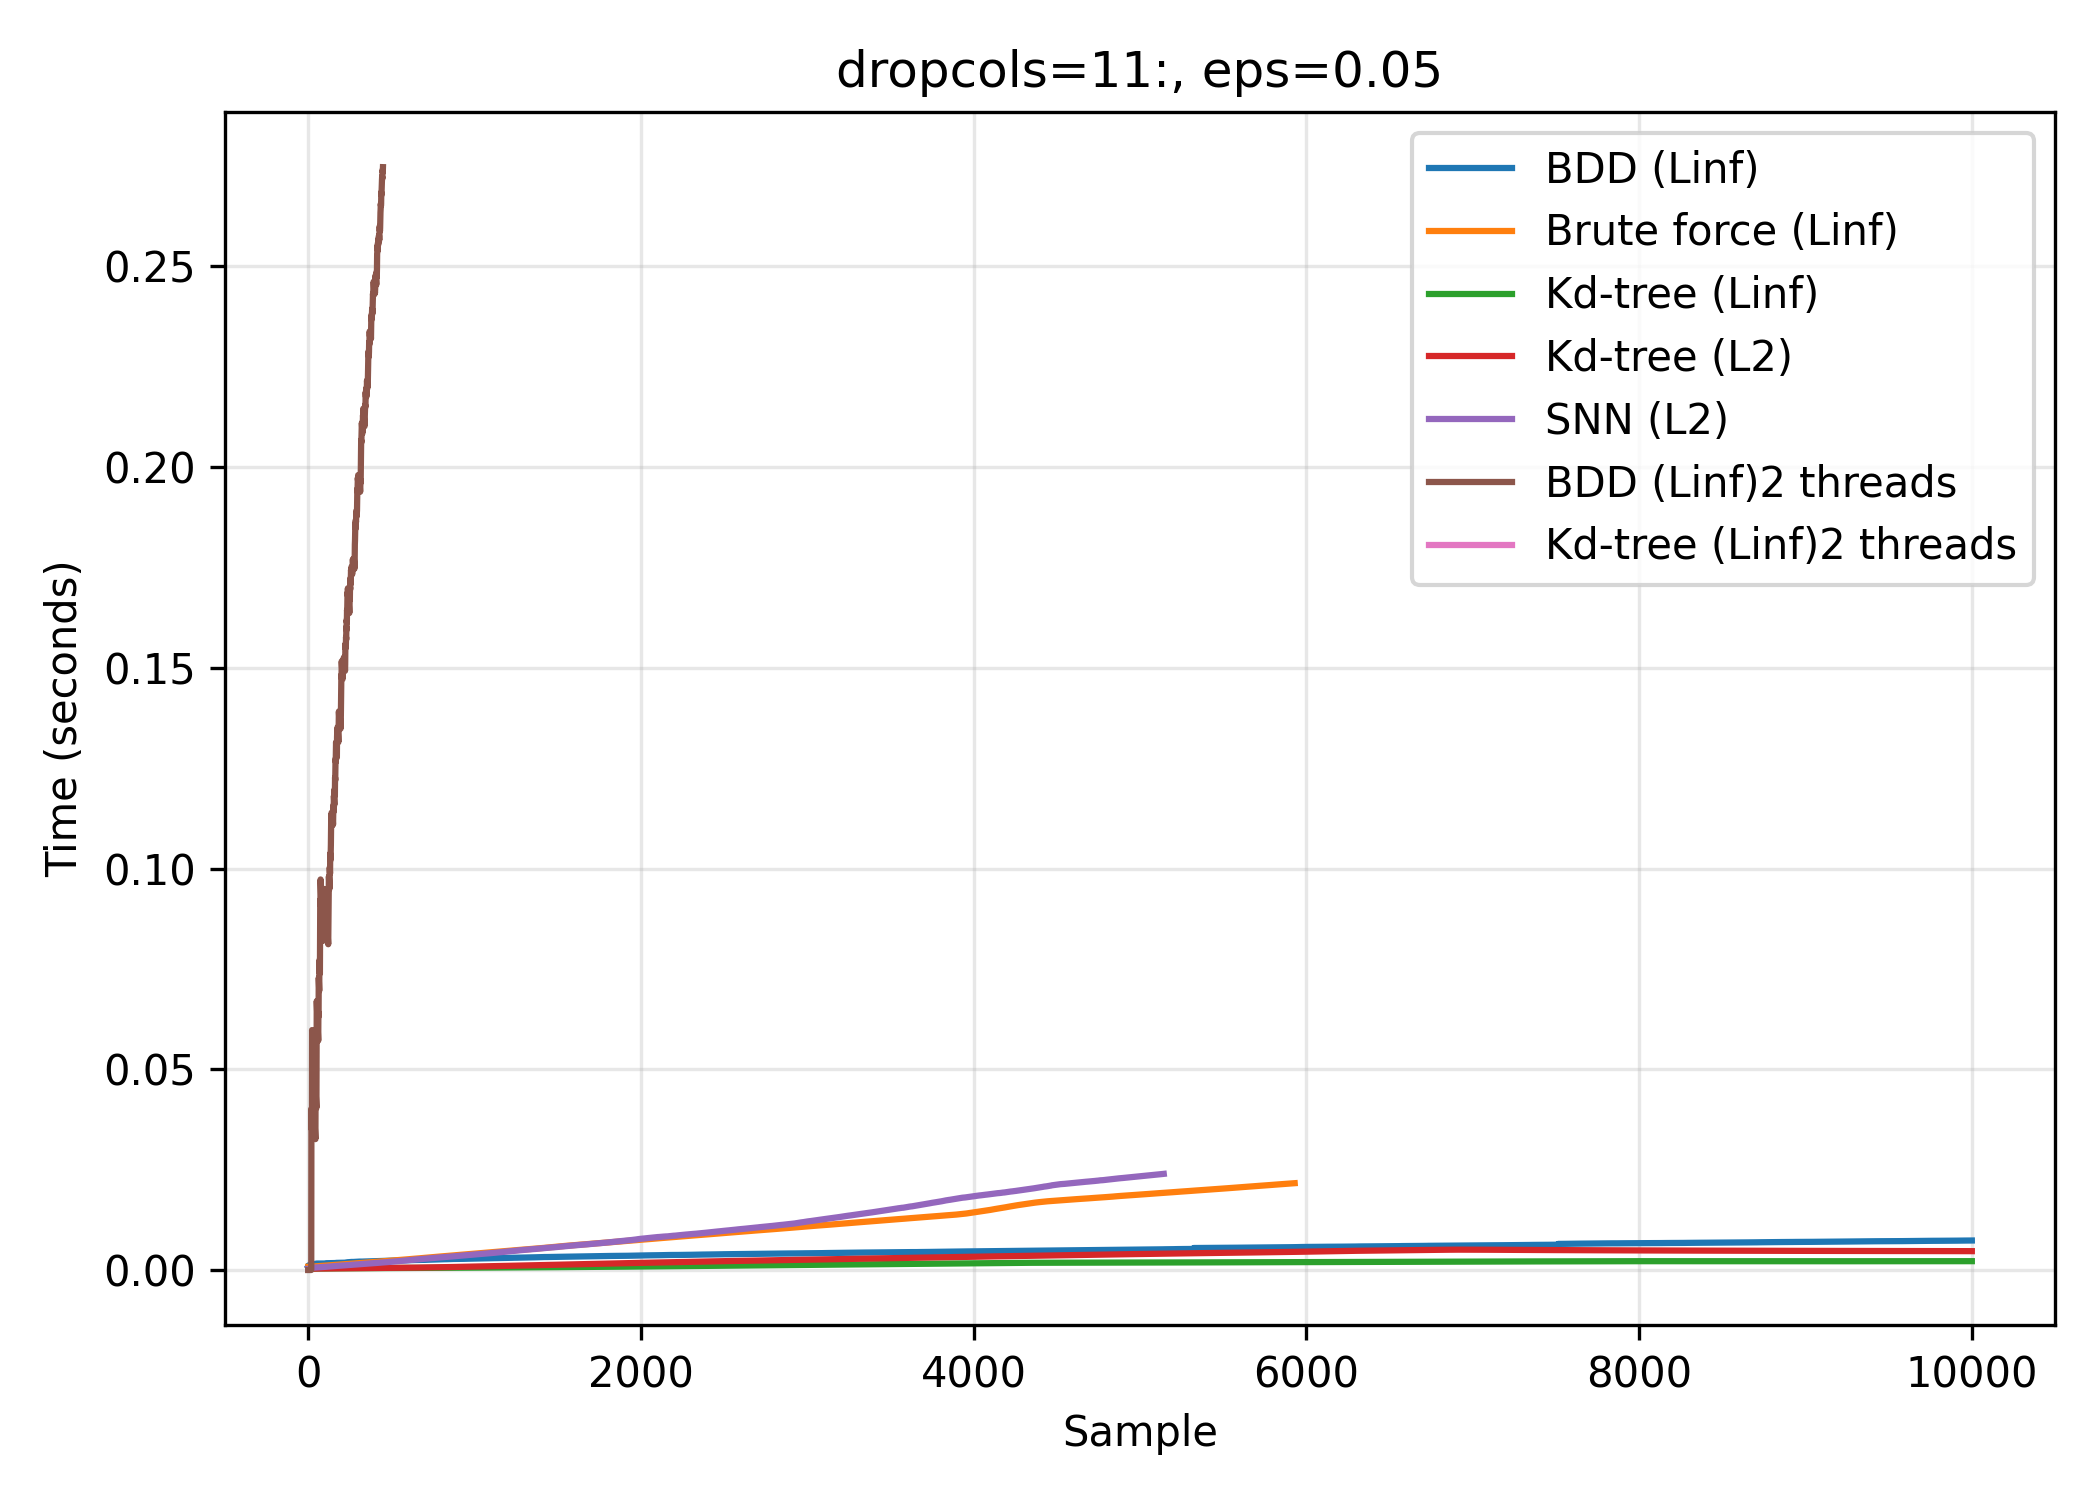
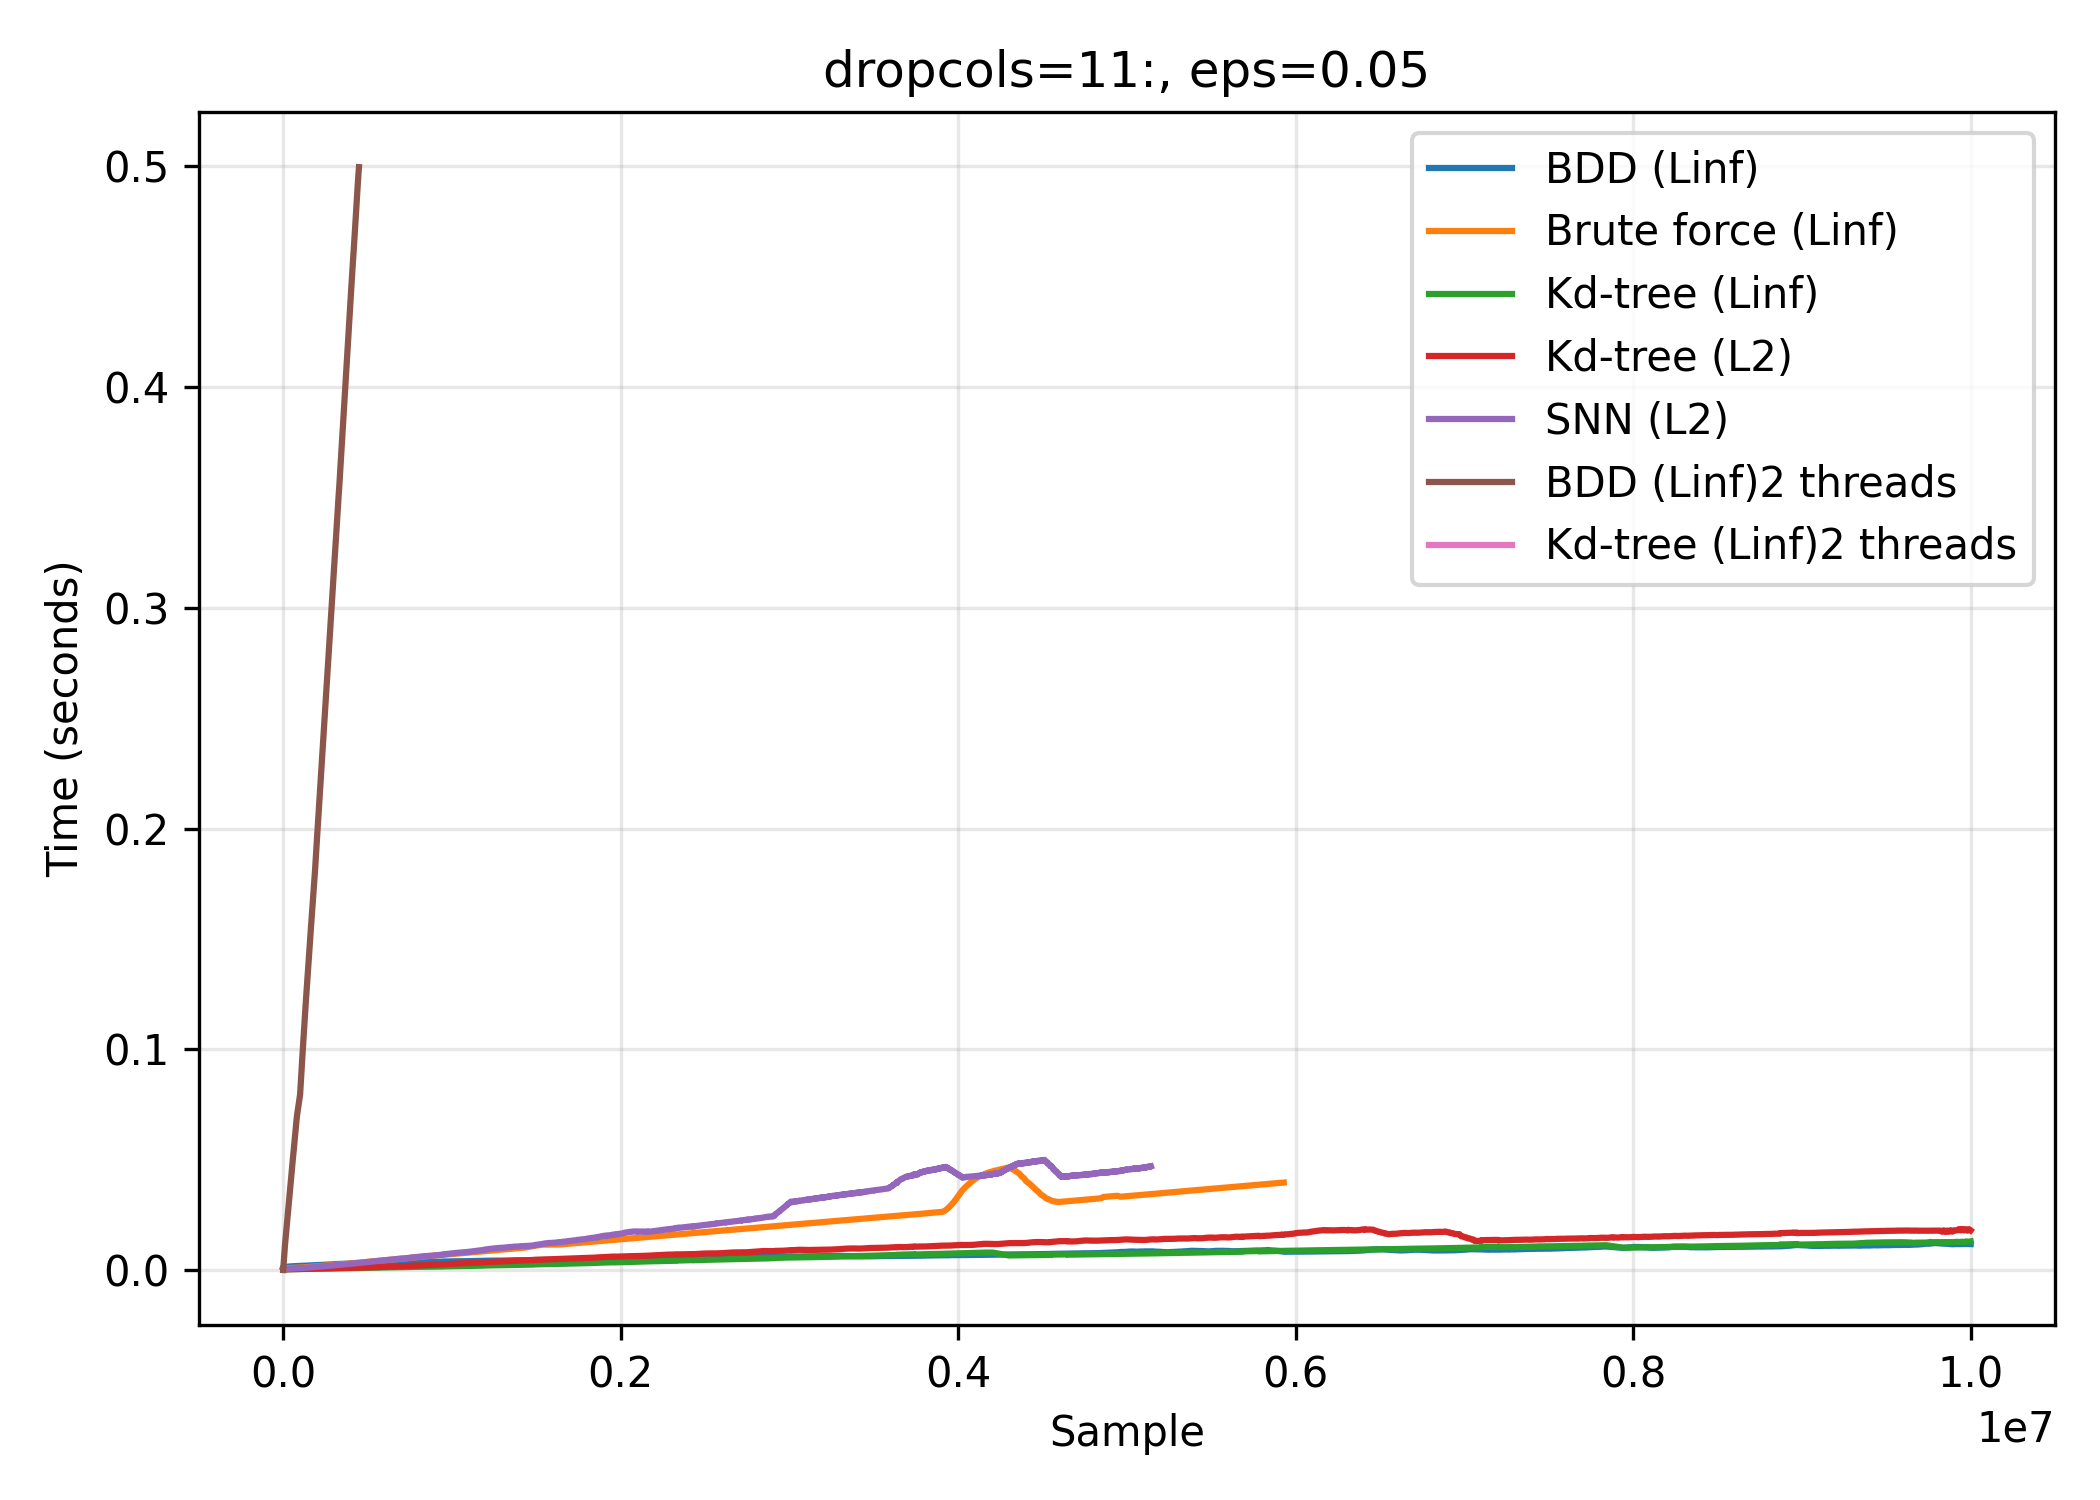
bugfix

diff --git a/results/performance/plot.py b/results/performance/plot.py
@@ -80,8 +80,8 @@ data.sort(key=lambda x: (x['parallelization'], x['norm'], x['method']))
 plt.figure(figsize=(7, 5))
 
 for item in data:
-    x = np.arange(len(item['timings'][args.omit_beginning:][::1000]))
-    y = rolling_average(item['timings'][args.omit_beginning:][::1000], args.windowsize)
+    x = np.arange(len(item['timings'][args.omit_beginning:]))[::1000]
+    y = rolling_average(item['timings'][args.omit_beginning:], args.windowsize)[::1000]
     plt.plot(x, y, label=item["name"])
 
 plt.xlabel('Sample')
